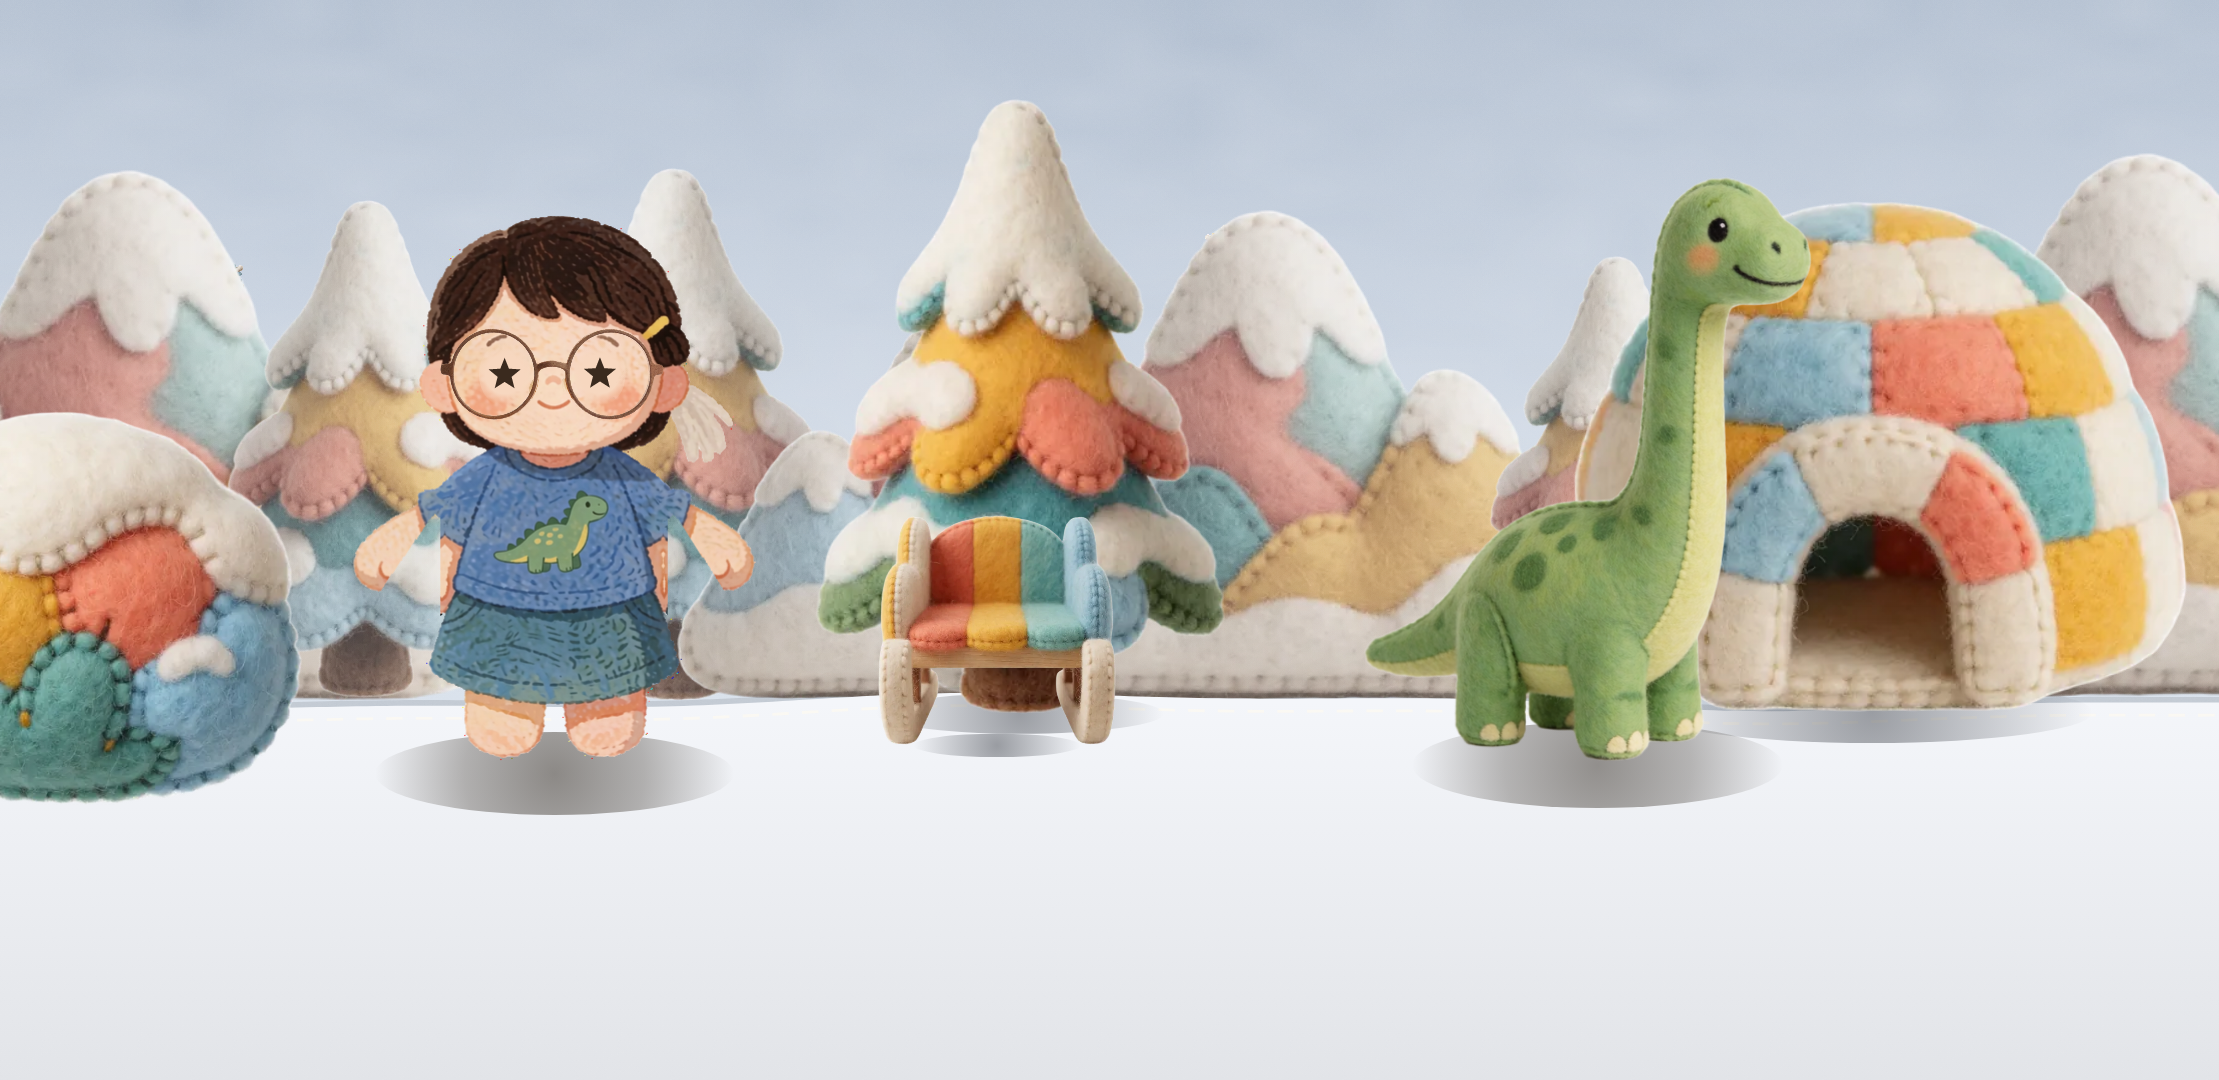
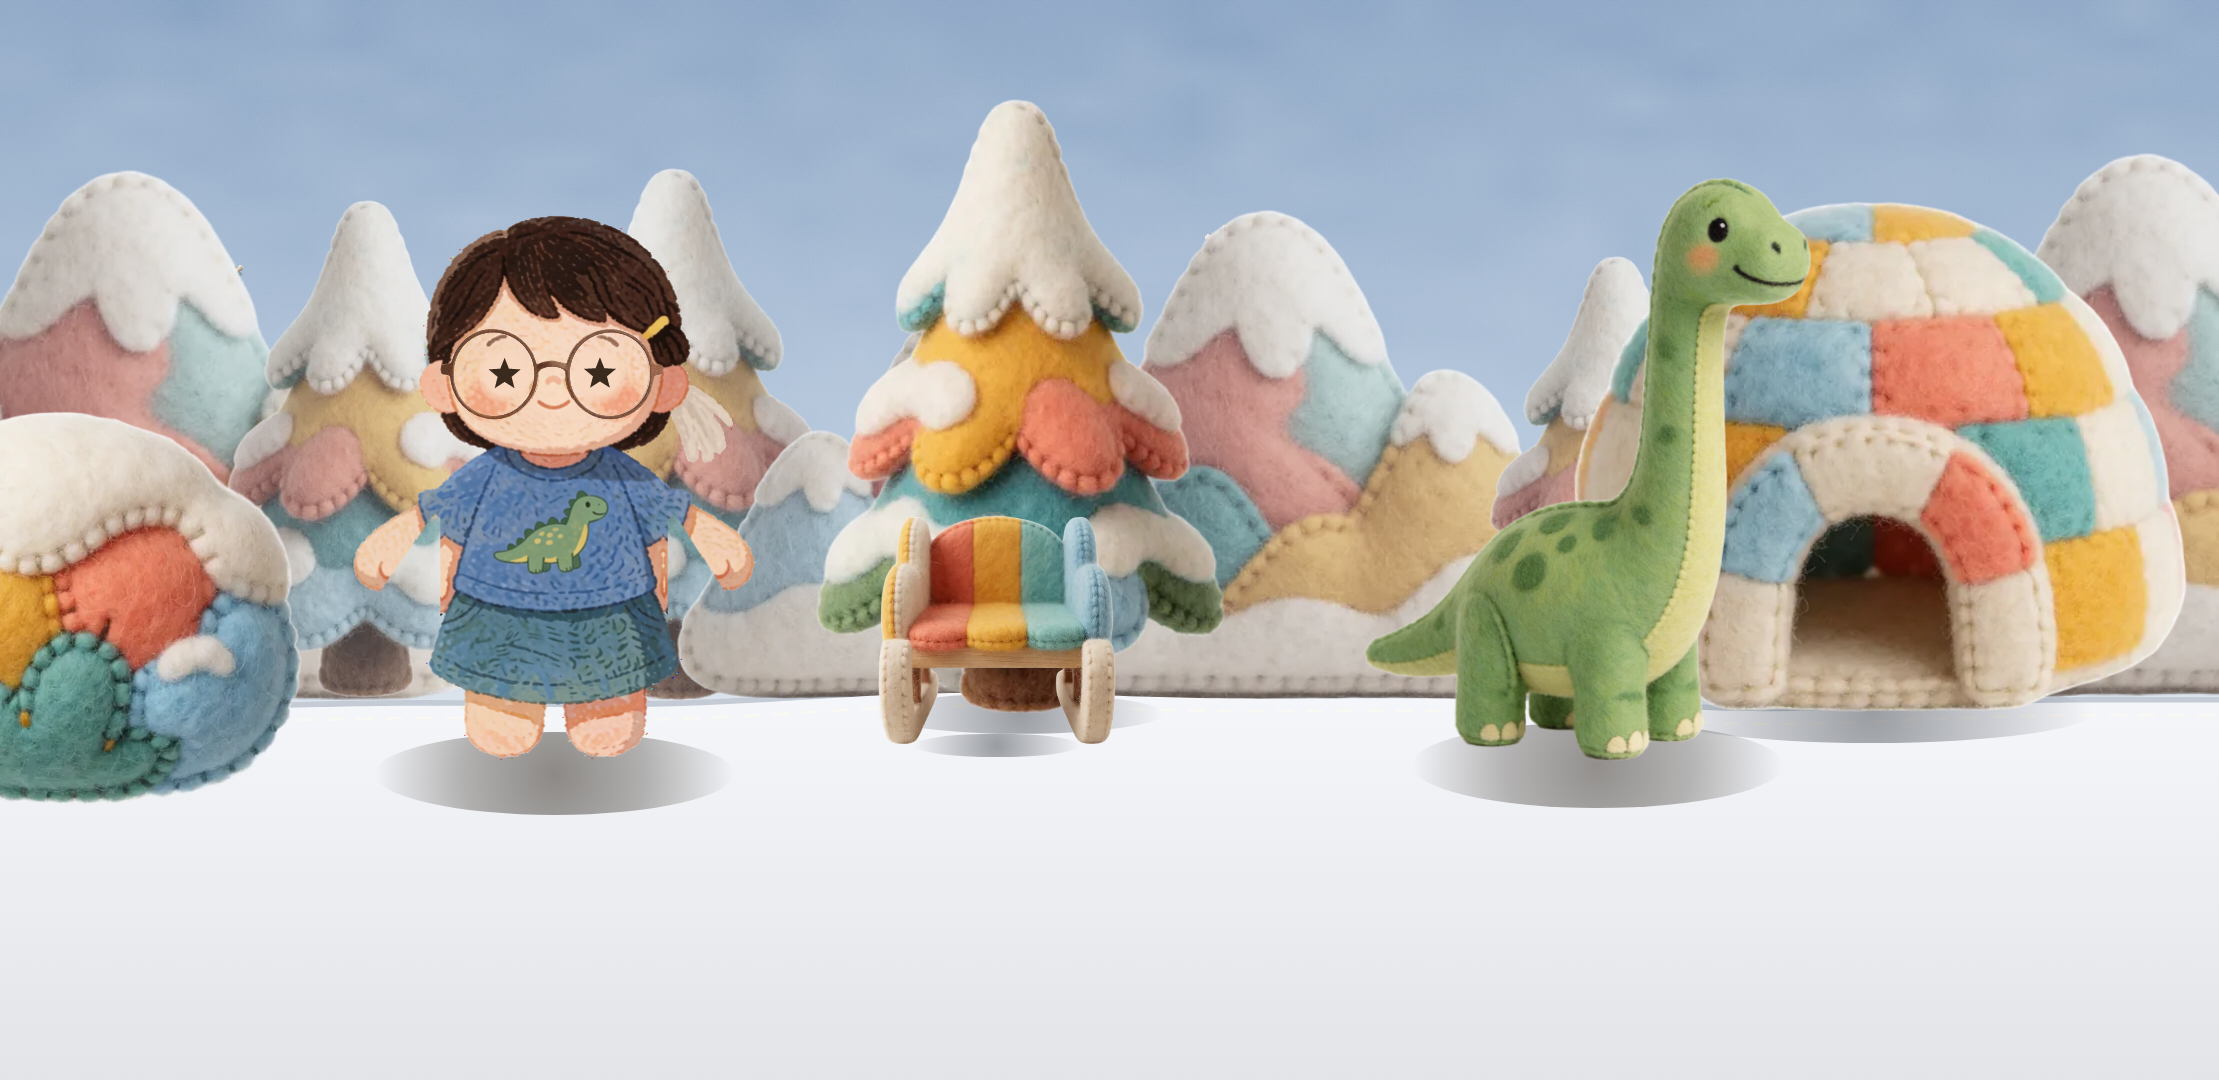
feat(scene): theme places reach their kits; indoor without hills, a snow sky that shows the snow, a smaller volcano (#222)
Device check (10-06, S10, live story, eight places): every place drew its kit and no /image background was asked for.
- StoryLiveFlow: 공룡 나라 · 우주 · 바닷속 go to their kits too (lead decision on #222); the theme picture is only for a
  place no kit matches
- indoor: no hills above the horizon (`SceneKitDef.hills`) — the sky there is a wall and two felt hills made it read as outside
- snow: blue-grey sky instead of grey, so white flakes and snowy pieces stand out
- dino volcano 2.5 → 1.7: it covered most of the stage from the far band on some seeds (d3 · #173)
- matching: 「산」 as a word (산에 · 뒷산 · 등산), so 「우산」 · 「산타」 no longer go to the forest
- SceneKitRoutingTest (new) · kit screenshots refreshed

Changed region(s): [[0.0, 0.0, 1.0, 0.4278]]

diff --git a/android/app/src/main/java/com/example/finalproject_demo/demo/scene/SceneKit.kt b/android/app/src/main/java/com/example/finalproject_demo/demo/scene/SceneKit.kt
@@ -68,6 +68,8 @@ data class SceneKitDef(
     val pieces: List<KitPiece>,
     /** How many landmarks one scene picks (out of the LANDMARK rows) */
     val landmarks: Int = 2,
+    /** Two felt hills above the horizon. Off indoors — the sky there is a wall, and hills made it read as outside (10-06 device · #222) */
+    val hills: Boolean = true,
 ) {
     fun byRole(role: PieceRole) = pieces.filter { it.role == role }
 }
@@ -123,7 +125,8 @@ val PARK_KIT = SceneKitDef(
 
 // ── §3-3 공룡 나라 — 12 pieces (#97 2순위 첫째 · 10-06), plus the common sun · cloud · butterfly in the sky ──────
 // aspects measured from the trimmed webps (`SceneKitShotTest.aspectsInTheTableMatchThePictures`)
-private val VOLCANO = KitPiece("volcano", "kit_dino_volcano", PieceRole.FAR, 2.5f, 0.872f, words = listOf("화산"))
+// 2.5 covered most of the stage from the far band on some seeds (d3 · #173) — 1.7 keeps it a far landmark
+private val VOLCANO = KitPiece("volcano", "kit_dino_volcano", PieceRole.FAR, 1.7f, 0.872f, words = listOf("화산"))
 private val PALM = KitPiece("palm_tree", "kit_dino_palm_tree", PieceRole.LANDMARK, 1.9f, 0.813f, words = listOf("야자나무", "나무"))
 private val WATERFALL = KitPiece("waterfall", "kit_dino_waterfall", PieceRole.LANDMARK, 1.8f, 1.111f, words = listOf("폭포"))
 private val JUNGLE = KitPiece("jungle", "kit_dino_jungle", PieceRole.FAR, 1.4f, 1.002f, words = listOf("숲", "정글"))
@@ -252,6 +255,7 @@ val INDOOR_KIT = SceneKitDef(
     skyTop = 0xFFF1E0C0, skyBottom = 0xFFF8EEDB,
     ground = 0xFFC6935E,
     hillFar = 0xFFE9D3AC, hillNear = 0xFFDFC496,
+    hills = false,
     pieces = listOf(
         WINDOW, FRAME, CLOCK,
         SOFA, BED, BOOKSHELF, TABLE,
@@ -340,7 +344,8 @@ private val CABIN = KitPiece("cabin", "kit_snow_cabin", PieceRole.LANDMARK, 1.5f
 /** 눈 나라 — 연회색 하늘 · 눈밭 (doc §1 table) */
 val SNOW_KIT = SceneKitDef(
     key = "snow",
-    skyTop = 0xFFB8C4D4, skyBottom = 0xFFE4EAF2,
+    // blue-grey, not grey — white flakes and snow pieces were lost on a grey sky (10-06 device · #222)
+    skyTop = 0xFF93ABC8, skyBottom = 0xFFCCD9E8,
     ground = 0xFFF4F6FA,
     hillFar = 0xFFCBD6E4, hillNear = 0xFFDDE5EF,
     pieces = listOf(
@@ -351,6 +356,9 @@ val SNOW_KIT = SceneKitDef(
         SNOW_BUSH_FRONT,
     ),
 )
+
+/** 「산」 as a word — 「산에 갔어」 · 「뒷산」 · 「등산」, not 「우산」 · 「산타」 · 「산책」(park) (10-06 · d3) */
+private val MOUNTAIN_WORD = Regex("(^|\\s|뒷|앞|등)산($|\\s|에|으로|속|길|꼭대기|위|이|을)")
 
 object SceneKits {
     /**
@@ -386,7 +394,7 @@ object SceneKits {
         listOf("눈 나라", "눈나라", "겨울", "북극", "눈사람", "이글루", "남극").any { it in place } -> SNOW_KIT
         listOf("바닷가", "해변", "바다", "모래사장", "해수욕").any { it in place } -> BEACH_KIT
         // 할머니 집 · 농장 is the countryside (doc §1), checked before the plain 「집」 of indoor
-        listOf("숲", "할머니", "농장", "시골", "밭", "목장", "산").any { it in place } -> FOREST_KIT
+        listOf("숲", "할머니", "농장", "시골", "밭", "목장").any { it in place } || MOUNTAIN_WORD.containsMatchIn(place) -> FOREST_KIT
         listOf("집", "방", "어린이집", "유치원", "교실", "거실", "학교").any { it in place } -> INDOOR_KIT
         else -> null
     }

diff --git a/android/app/src/test/java/com/example/finalproject_demo/SceneKitRoutingTest.kt b/android/app/src/test/java/com/example/finalproject_demo/SceneKitRoutingTest.kt
@@ -1,0 +1,68 @@
+package com.example.finalproject_demo
+
+import com.example.finalproject_demo.demo.DemoState
+import com.example.finalproject_demo.demo.StoryMode
+import com.example.finalproject_demo.demo.scene.SceneKits
+import com.example.finalproject_demo.demo.syncStoryPresentation
+import org.junit.Assert.assertEquals
+import org.junit.Assert.assertFalse
+import org.junit.Assert.assertNull
+import org.junit.Assert.assertTrue
+import org.junit.Test
+import org.junit.runner.RunWith
+import org.robolectric.RobolectricTestRunner
+import org.robolectric.annotation.Config
+
+/**
+ * #222 (10-06) — the eight kits on the stage. Device-checked: every place below reached its kit and no `/image`
+ * background was asked for (`실기기_확인_1006/키트/`).
+ */
+@RunWith(RobolectricTestRunner::class)
+@Config(sdk = [34])
+class SceneKitRoutingTest {
+    private fun kitFor(place: String) = DemoState().apply {
+        mode = StoryMode.STORY; slots["place"] = place
+    }.also { it.syncStoryPresentation() }.sceneKit
+
+    /** The three app themes go to their kits too — before, the theme check ran first and they never reached one */
+    @Test
+    fun theThreeThemePlacesReachTheirKits() {
+        assertEquals("dino", kitFor("공룡 나라"))
+        assertEquals("space", kitFor("우주"))
+        assertEquals("sea", kitFor("바닷속"))
+    }
+
+    @Test
+    fun theOtherFiveKitsAsOnThePhone() {
+        assertEquals("park", kitFor("공원"))
+        assertEquals("indoor", kitFor("우리 집"))
+        assertEquals("forest", kitFor("할머니 집"))
+        assertEquals("beach", kitFor("바닷가"))
+        assertEquals("snow", kitFor("눈 나라"))
+        assertNull("미래 도시 is still generated", kitFor("과학이 발전한 미래 도시"))
+    }
+
+    /** 「산」 as a word only — 「우산」 · 「산타」 went to the forest (d3 · 10-06) */
+    @Test
+    fun mountainIsAWordNotASyllable() {
+        listOf("산에 갔어", "뒷산", "등산", "높은 산 꼭대기", "산속 오두막").forEach { assertEquals(it, "forest", SceneKits.matching(it)?.key) }
+        assertNull(SceneKits.matching("우산 나라"))
+        assertNull(SceneKits.matching("산타 마을"))
+        assertEquals("산책은 공원", "park", SceneKits.matching("산책길")?.key)
+    }
+
+    /** Indoors the sky is a wall — no hills there; every other kit keeps them */
+    @Test
+    fun onlyIndoorDropsTheHills() {
+        SceneKits.all.values.forEach { k -> assertEquals(k.key, k.key != "indoor", k.hills) }
+    }
+
+    /** The snow sky is blue-grey, darker than the snow ground, so white flakes show */
+    @Test
+    fun theSnowSkyIsDarkerThanTheSnow() {
+        val snow = SceneKits.all.getValue("snow")
+        fun lum(c: Long) = ((c shr 16) and 0xFF) * 0.3 + ((c shr 8) and 0xFF) * 0.59 + (c and 0xFF) * 0.11
+        assertTrue(lum(snow.skyTop) < lum(snow.ground) - 40)
+        assertFalse(lum(snow.skyBottom) >= lum(snow.ground))
+    }
+}

diff --git a/android/app/src/main/java/com/example/finalproject_demo/ui/SceneKitView.kt b/android/app/src/main/java/com/example/finalproject_demo/ui/SceneKitView.kt
@@ -196,8 +196,10 @@ fun SceneBack(kit: SceneKitDef, seedBase: Long, actors: Int, bottomInset: Dp, to
             scene.pieces.filter { it.piece.base == PieceBase.CENTER && it.piece.role != PieceRole.FLOAT }
                 .sortedBy { it.h }.forEach { drawPiece(it) }
             // hills — two felt layers above the horizon, then the hazy far band
-            hill(f, hills[0], Color(kit.hillFar))
-            hill(f, hills[1], Color(kit.hillNear))
+            if (kit.hills) {
+                hill(f, hills[0], Color(kit.hillFar))
+                hill(f, hills[1], Color(kit.hillNear))
+            }
             scene.pieces.filter { it.fade > 0f }.forEach { drawPiece(it) }
             // ground — from the actors' depth-0 feet line down, soft wavy stitched edge
             hill(f, hills[2], Color(kit.ground))

diff --git a/android/app/src/main/java/com/example/finalproject_demo/demo/StoryLiveFlow.kt b/android/app/src/main/java/com/example/finalproject_demo/demo/StoryLiveFlow.kt
@@ -219,7 +219,9 @@ internal fun DemoState.syncStoryPresentation() {
         s.generatedBg = theme == null
         // a new place gets a new kit layout seed; the same place keeps its scene (turn after turn, undo/redo)
         if (s.place != place) s.sceneSeed = kotlin.random.Random.nextLong()
-        s.sceneKit = if (theme == null && SceneKits.liveStory) SceneKits.matching(place)?.key else null
+        // the three app themes (공룡 나라 · 우주 · 바다) go to their kits too — the kit has a floor and lives (birds, bubbles);
+        // the theme picture is only for a place no kit matches (10-06 lead decision on #222 · device-checked all eight kits)
+        s.sceneKit = if (SceneKits.liveStory) SceneKits.matching(place)?.key else null
         s.place = place
     }
     s.problem = s.slots["problem"]
